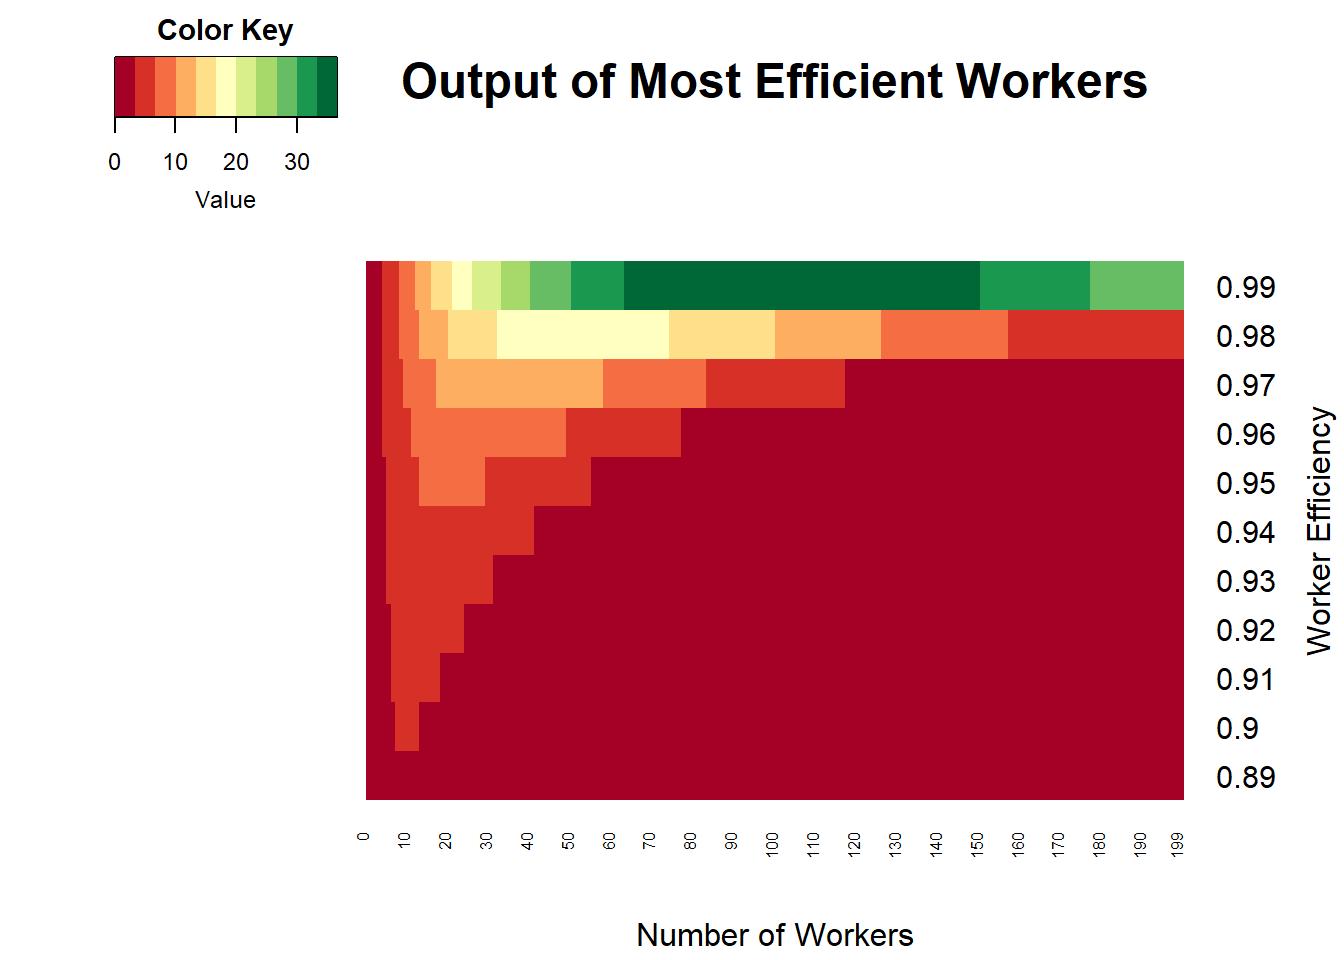
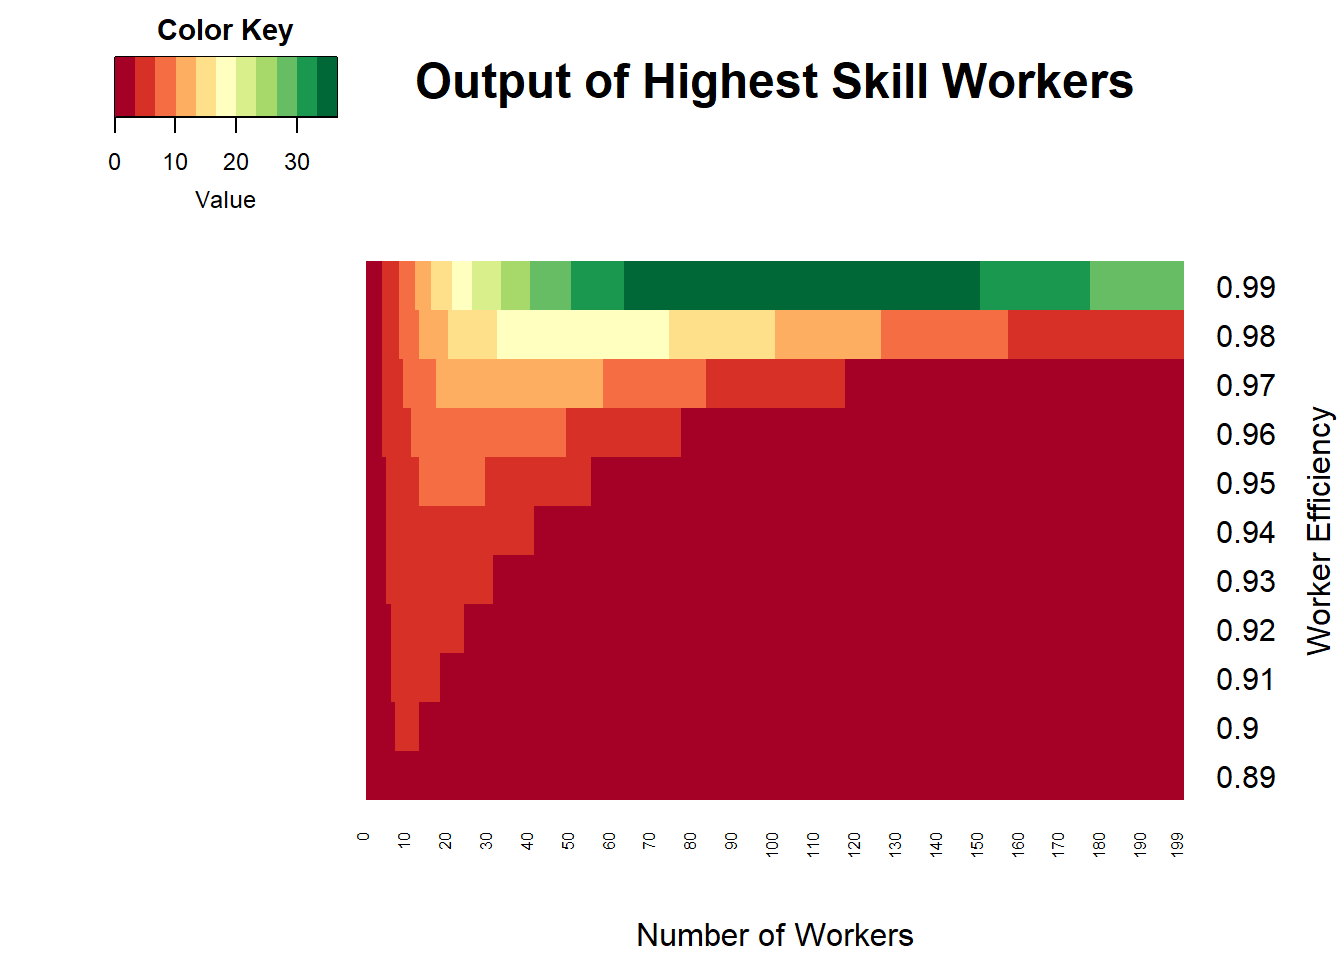
Changed O-ring language and added footnote

Changed region(s): [[0.2812, 0.0625, 0.875, 0.125]]

diff --git a/projects.html b/projects.html
@@ -225,21 +225,35 @@ $(document).ready(function () {
 <div id="myTabContent" class="tab-content">
 <div id="PenroseTilings" class="tab-pane fade in active">
 <p><img src="penrose_in_out.gif" id="id" class="class" width="400" height="225" /> <img src="triangle%20bw%20angle.PNG" id="id" class="class" width="467" height="225" /><br />
-I translated code from <a href="http://preshing.com/20110831/penrose-tiling-explained">here</a> into R, then tried to make shapes and patterns which continue to intrigue after repeated viewings</p>
+I translated code from <a href="http://preshing.com/20110831/penrose-tiling-explained">here</a> into R, then tried to make shapes and patterns that continue to intrigue after repeated viewings</p>
 </div>
-<div id="VisualizingO-RingTheory" class="tab-pane fade">
-<p>When I first read about <a href="https://en.wikipedia.org/wiki/O-ring_theory_of_economic_development">O-ring theory</a>, I was impressed with the idea, but unfortunately, I wasn’t able to find any good graphical displays of the output from different groups of workers. The following illustrates when workers of a certain efficiency level would benefit from banding together, when they should maintain the current group size, and when they should break into smaller groups</p>
-<p><img src="projects_files/figure-html/unnamed-chunk-1-1.png" width="672" style="display: block; margin: auto;" /> As you can see,the most efficient workers are responsible for the largest deviations in output, so let’s zoom in on those workers</p>
-<p><img src="projects_files/figure-html/unnamed-chunk-2-1.png" width="672" style="display: block; margin: auto;" /> These workers seem to benefit from forming small groups, but they face diminishing - and even negative - returns to joining together after achieving a certain group size.</p>
-<p>Even those workers with 99% efficiency top out at groups of about 100 workers, as shown below</p>
-<p><img src="projects_files/figure-html/unnamed-chunk-3-1.png" width="672" style="display: block; margin: auto;" /> For the sake of giving the reader greater color, here’s a heatmap focusing on those workers with efficiencies below 90%</p>
+<div class="tab-pane fade" id="VisualizingO-RingTheory">
+<p>When I first read about <a href="https://en.wikipedia.org/wiki/O-ring_theory_of_economic_development">O-ring theory</a>, I was impressed with the idea, but unfortunately, I wasn’t able to find any good graphical displays of the output from different groups of workers. The following illustrates when workers of a certain skill level would benefit from banding together, when they should maintain the current group size, and when they should break into smaller groups <sup><a href="#footnote-1" id="note-1" rel="footnote" <sup> 1 </sup> </a></p>
+<p><img src="projects_files/figure-html/unnamed-chunk-1-1.png" width="672" style="display: block; margin: auto;" /> As you can see, the highest skill workers are responsible for the largest deviations in output, so let’s zoom in on those workers</p>
+<p><img src="projects_files/figure-html/unnamed-chunk-2-1.png" width="672" style="display: block; margin: auto;" /> These workers seem to benefit from forming small groups, but they face diminishing - and then negative - returns to joining together after achieving a certain group size</p>
+<p>Even those workers with 99% skill level top out at groups of about 100 workers, as shown below</p>
+<p><img src="projects_files/figure-html/unnamed-chunk-3-1.png" width="672" style="display: block; margin: auto;" /> For the sake of giving the reader greater color, here’s a heatmap focusing on those workers with levels below 90%. Note that the color key has a different scale on this heatmap</p>
 <p><img src="projects_files/figure-html/unnamed-chunk-4-1.png" width="672" style="display: block; margin: auto;" /></p>
-<p>Where the 99% efficient workers top out at an output of ~37, 89% efficient workers can’t even reach 4!<br />
-<br /><br />
-Whether or not this makes the O-ring theory more or less believable, seeing these results should give you a better intuition about the model’s claims</p>
+<p>Two things immediately jump out:</p>
+<ol style="list-style-type: decimal">
+<li>The lower skill workers should form smaller teams</li>
+<li>Teams composed of higher skill workers can produce output much more valuable than the output from lower skill workers</li>
+</ol>
+<p>For a simple example, while the 99% workers can create output of ~37 value using a team of 100 people, the 89% workers shouldn’t be in teams greater than 9 people, and their output’s value tops out at ~3. <br /></p>
+<p>This only displays one side of the theory, focusing on what workers can produce, while ignoring worker distributions, how firms should operate in this environment (though the heatmap does assume perfect skill matching), and the broader implications of this model. Whether or not these illustrations makes the O-ring theory more believable, seeing these results should give you a better intuition about the model’s claims.</p>
+<div class="footnotes">
+<hr />
+<ol>
+<li id="footnote-1" class="footnote" style="font-size:80%; padding-top:75px;">
+<p>
+This is a simplified version of the theory where Beta is assumed to always equal 1, and perfect skill matching is possible<a href="#note-1" class="footnote-return">↩</a>
+</p>
+</li>
+<!--/#footnote-1.footnote-->
+</div>
 </div>
 <div id="SymmetryandScale" class="tab-pane fade">
-<p>I was bored at training early on in my working days, and the instructor was wearing a houndstooth sweater. Naturally, I started thinking about how to make identical shapes that tile the plane, indirectly inspired by Escher (and directly inspired by a sweater). I asked a friend of mine to create a <a href="http://dev.zachsilversmith.com/escher">program</a> where manipulating one side of a shape would also move the opposite side. This could be extended a lot further (curves, points, etc.) but even this simplified version could make some cool stuff</p>
+<p>I was bored at training early on in my working days, and the instructor was wearing a houndstooth sweater. Naturally, I started thinking about how to make identical shapes that tile the plane, indirectly inspired by Escher (and directly inspired by a sweater). I asked a friend of mine to create a <a href="http://dev.zachsilversmith.com/escher">program</a> where manipulating one side of a shape would also move the opposite side. This could be extended a lot further (curves, points, etc.) but even this simplified version could make some cool images</p>
 <p><img src="Unicorn.PNG" id="id" class="class" width="290" height="290" />  <img src="snaker.PNG" id="id" class="class" width="290" height="290" />  <img src="For%20Kevin.PNG" id="id" class="class" width="290" height="290" /></p>
 <p>I took one output from the program (the first image shown below), and played around with it in PowerPoint to see if combining and recombining the image at different scales would turn up anything good <br /> <br /></p>
 <p><img src="building%20block.jpg" alt="Building block" id="id" class="class" width="290" height="290" />  <img src="diamond.jpg" id="id" class="class" width="290" height="290" />  <img src="meta%20exes.jpg" id="id" class="class" width="290" height="290" /></p>
